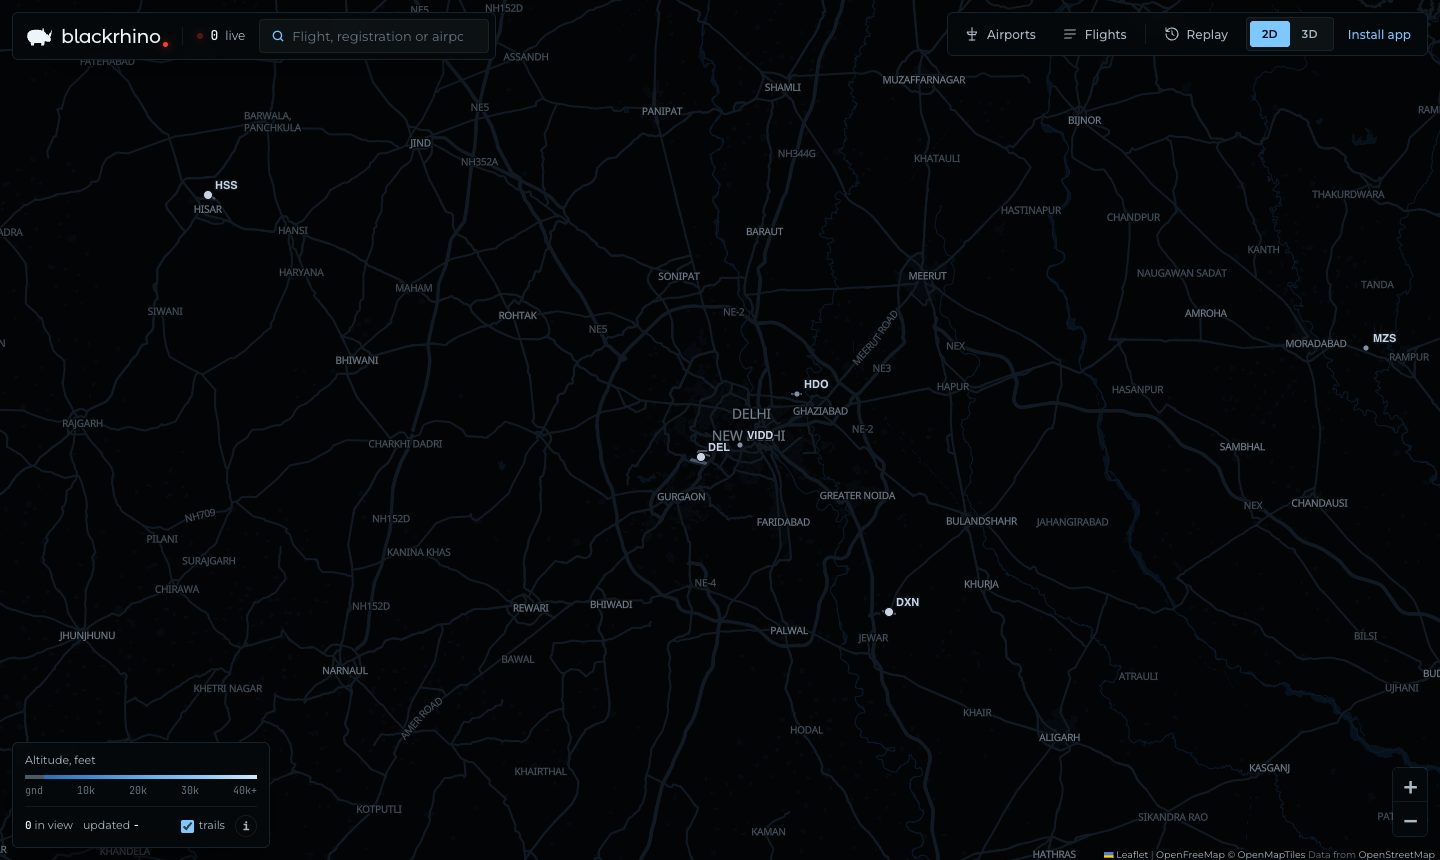
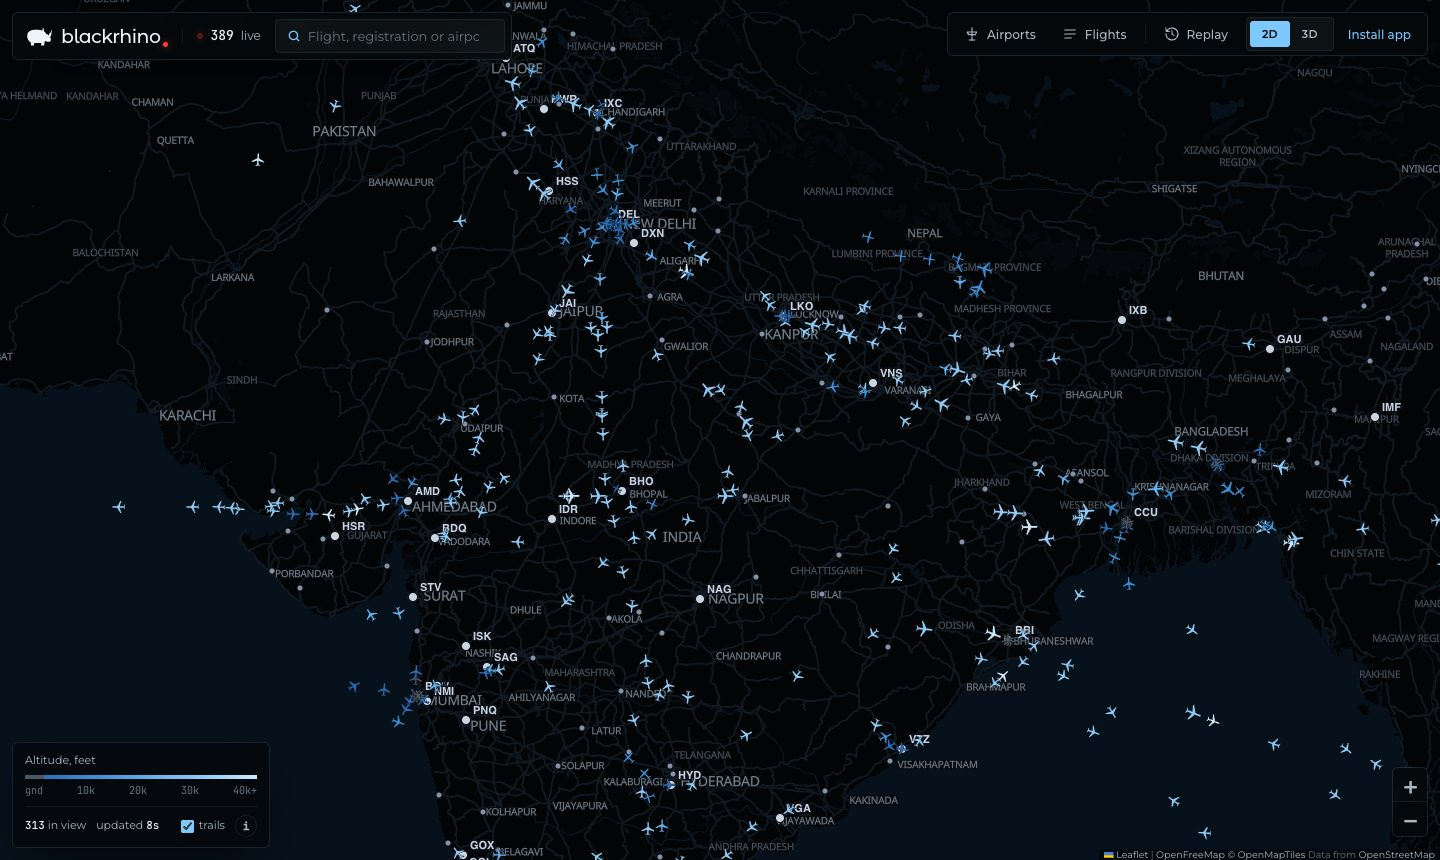
README: screenshots, 3D features

diff --git a/README.md b/README.md
@@ -7,6 +7,13 @@ Installable as a PWA. Runs entirely on free tiers.
 
 **Live:** https://blackrhino.in · MIT licensed · Not for navigation.
 
+| Live radar | 3D: real Delhi airport |
+|---|---|
+| ![2D radar over India](.github/screens/map.jpg) | ![Delhi IGI from OpenStreetMap in 3D](.github/screens/airport-delhi.jpg) |
+| **Following a landing (chase)** | **Cockpit view** |
+| ![A320 on final into Delhi](.github/screens/3d-approach.jpg) | ![Captain's view on final](.github/screens/cockpit.jpg) |
+
+
 ## Features
 
 - **Live aircraft** from [adsb.fi](https://adsb.fi) (12 areas over India) and [adsb.lol](https://adsb.lol), plus
@@ -15,7 +22,10 @@ Installable as a PWA. Runs entirely on free tiers.
 - **Flight card** with ~40 fields when available: route and progress, ETA (IST), airline, registration, type, photo,
   autopilot targets, wind, temperature, squawk, ADS-B integrity.
 - **Airports**: runways, live METAR, boards (arrivals, departures, on ground, nearby, earlier).
-- **3D India** (Three.js): terrain + imagery, live EUMETSAT infrared clouds, chase / cockpit / orbit cameras. `/globe` is the CesiumJS version.
+- **3D India** (Three.js): terrain and imagery that sharpen around the camera, live EUMETSAT infrared clouds, real sun.
+  Real layouts of 141 Indian airports from OpenStreetMap (runways with ICAO markings, taxiways, aprons, terminals).
+  The followed aircraft is an articulated A320 (gear, flaps, spoilers, reversers, lights) in ~20 airline liveries,
+  with chase, cockpit and orbit cameras. Demos: `/3d?demo=landing`, `/3d?demo=takeoff`. `/globe` is the CesiumJS version.
 - **Flights panel**: sortable list, filters, fleet per airline, bookmarks, recently viewed.
 - **Interface**: one stylesheet (`public/app.css`) for every app page. Brand and search top left, tools top right (a bottom dock on phones), altitude scope bottom left with data sources behind its ⓘ.
 - **2D map extras**: aircraft silhouettes by type (jet, widebody, turboprop, light, helicopter), trails coloured by altitude,
